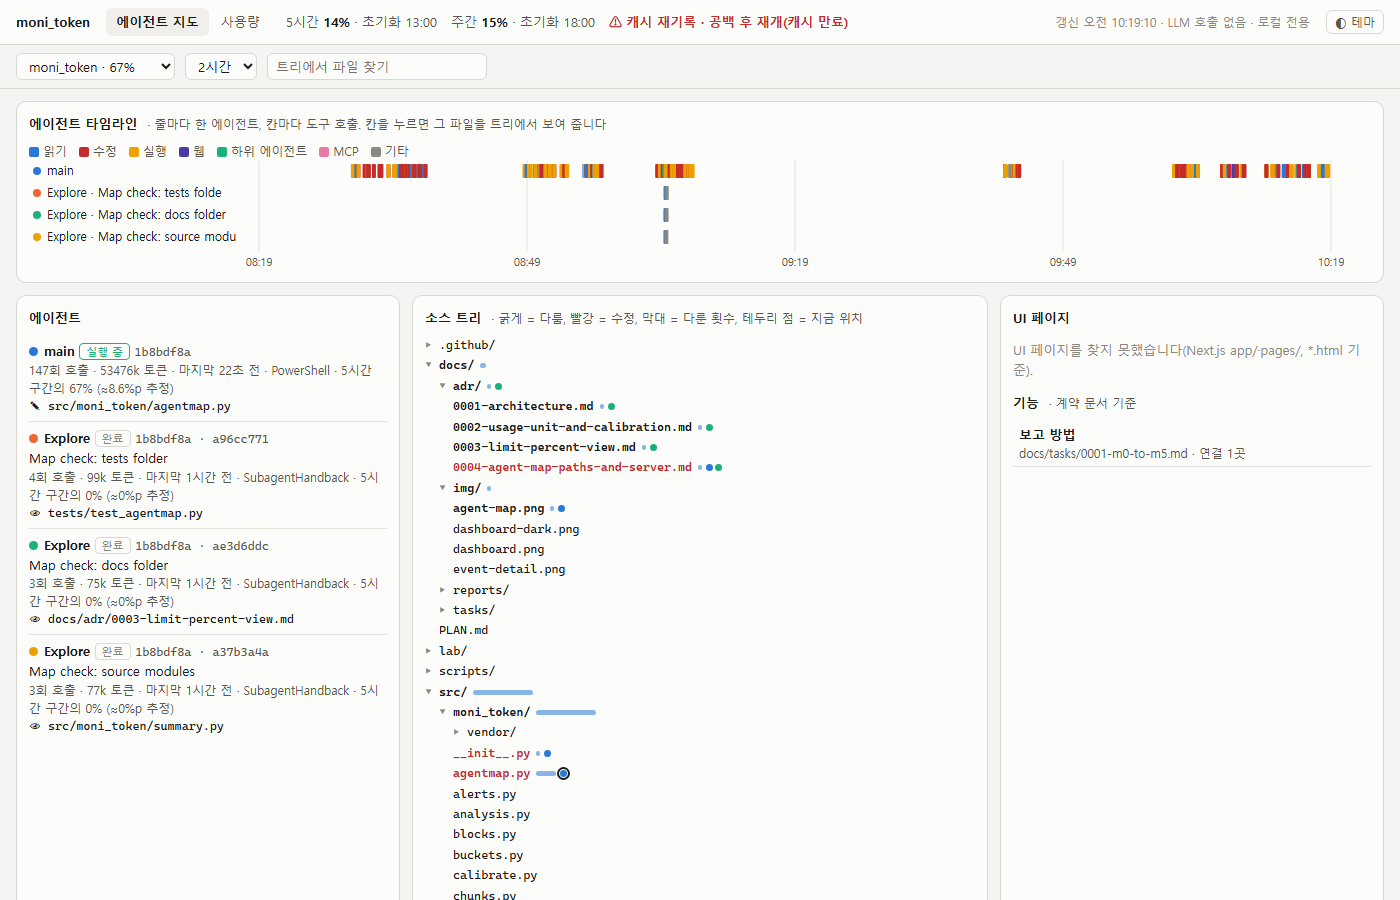
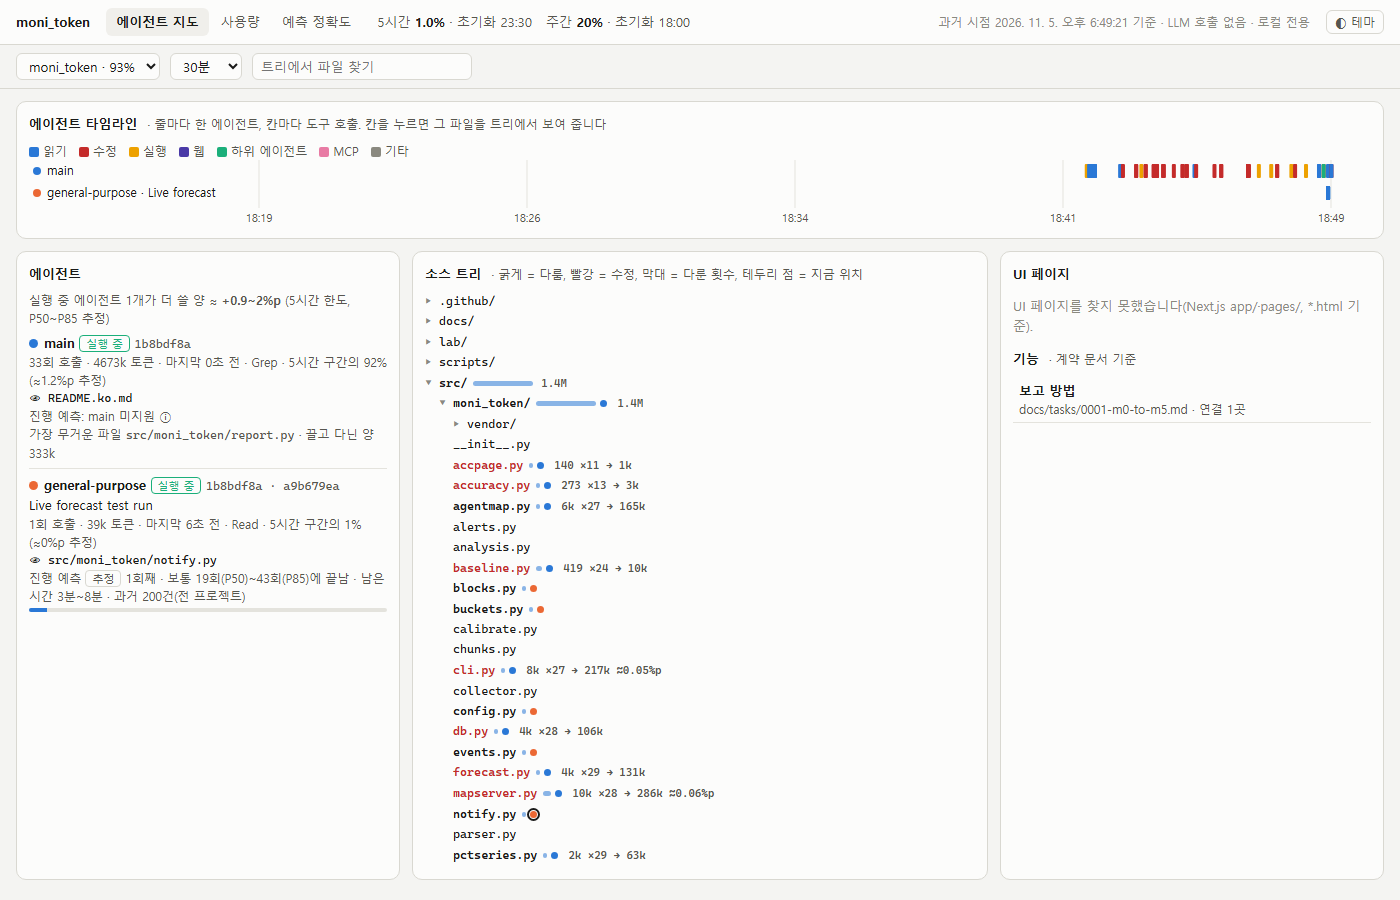
README: current screenshots (baselines, accuracy page, forecast on the map)
- demo data gets six earlier weeks so the usual curve and last week show
- dashboard (light and dark) with baselines and verdicts
- agent map with a subagent forecast and the main-agent note
- new forecast accuracy screenshot

Claude-Session: https://claude.ai/code/session_01FatjmAMN41hpZSuy3XZy95

diff --git a/scripts/demo_report.py b/scripts/demo_report.py
@@ -131,6 +131,22 @@ def scenario() -> list[Session]:
         ss.append(s)
     e = Session("web-app", "e5f6a7b8-0001"); e.work(d0 + timedelta(days=2, hours=16, minutes=10), 30, 80); ss.append(e)
     f = Session("docs-site", "f6a7b8c9-0001"); f.work(d0 + timedelta(days=2, hours=12, minutes=0), 35, 90); ss.append(f)
+    return history(d0) + ss
+
+
+def history(d0: datetime, days: int = 42) -> list[Session]:
+    """Six earlier weeks of ordinary work, so the charts have a usual curve and a last week to compare with."""
+    ss = []
+    for k in range(days, 0, -1):
+        day = d0 - timedelta(days=k)
+        if day.weekday() >= 5 and rnd.random() < 0.7:     # mostly quiet weekends
+            continue
+        for j in range(rnd.choice((1, 1, 2))):
+            proj = rnd.choice(("web-app", "docs-site", "data-pipeline"))
+            s = Session(proj, f"h{k:02d}{j}-0000", ctx=rnd.randint(40_000, 80_000))
+            s.work(day + timedelta(hours=9 + j * 5, minutes=rnd.randint(0, 50)), rnd.randint(40, 90), rnd.randint(40, 80),
+                   big_every=rnd.choice((0, 6, 8)), big_tokens=rnd.randint(8_000, 16_000))
+            ss.append(s)
     return ss
 
 

diff --git a/README.ko.md b/README.ko.md
@@ -158,7 +158,7 @@ uv run moni-token map          # http://127.0.0.1:4990/
 
 ![실시간 에이전트 지도](docs/img/agent-map.png)
 
-<sub>이 기능을 만드는 동안 찍은 이 저장소 자신의 지도입니다. 세션 하나가 고친 파일이 빨강으로 보입니다.</sub>
+<sub>이 저장소를 개발하는 도중 찍은 지도입니다. 서브에이전트(general-purpose)는 실행 중이고 진행 예측이 나와 있으며, main에는 "진행 예측: main 미지원"이 표시됩니다. 빨간 파일은 수정된 파일이고, 옆 숫자는 파일별 토큰 비용입니다.</sub>
 
 메인 세션과 서브에이전트가 지금 프로젝트의 어디서 일하는지 보여 줍니다.
 
@@ -193,6 +193,10 @@ uv run moni-token map          # http://127.0.0.1:4990/
   - **지난주 선:** 지난주 같은 시점의 사용량입니다.
 - **판정:** 그래프 제목 옆에 근거 숫자와 함께 나옵니다. 예: "▲ 높음 · 지금 20% · 평소 이번 주 2일 시점 5.9% (P25~P75 0~14%) · 과거 10개 구간". 과거 구간이 5개 미만이면 "기록 부족"으로 나옵니다.
 - **속도 전망:** 최근 1시간(주간은 하루)의 속도가 이어지면 초기화 때 몇 %가 되는지 보여 줍니다. 그 전에 100%에 닿으면 언제쯤인지도 알려 줍니다.
+
+main 에이전트는 진행 예측을 하지 않습니다. 권장 구성에서 main은 지시와 검수만 맡기 때문이며, 지도에는 그 사실이 툴팁으로 표시됩니다.
+
+![예측 정확도](docs/img/accuracy.png)
 
 **예측 정확도:** **http://127.0.0.1:4990/accuracy**
 - **기록:** 지도 서버(20초마다)와 `check`가 실행 중인 서브에이전트마다 그때 보인 예측을 호출 수가 바뀔 때마다 숫자로만 남깁니다(`forecast_snaps` 표). 실행이 끝나면 채점합니다.

diff --git a/README.md b/README.md
@@ -162,7 +162,10 @@ uv run moni-token map          # http://127.0.0.1:4990/
 
 ![Live agent map](docs/img/agent-map.png)
 
-<sub>This repository's own map while this feature was being written: one session, files it edited in red.</sub>
+<sub>This repository's own map during development:
+- a running subagent (general-purpose) with its progress forecast;
+- the main agent marked "progress forecast: not supported for main";
+- edited files in red, each touched file with its token cost.</sub>
 
 Shows where each agent (main session and subagents) is working right now:
 
@@ -199,6 +202,10 @@ project shows its share of the current 5-hour window (≈ %p via calibration, la
   - last week's line.
 - A label next to each chart title gives the verdict with its numbers, for example: "▲ high · 20% now · usually 5.9% at day 2 (P25–P75 0–14%) · 10 past windows". Below 5 past windows it says "not enough history".
 - A pace line shows the % you would reach at the reset if the last hour's slope (the last day's for the weekly chart) continues, and when 100% would come first.
+
+The main agent gets no forecast: in the recommended setup it only directs and reviews. A tooltip on the map says so.
+
+![Forecast accuracy](docs/img/accuracy.png)
 
 **Forecast accuracy** at **http://127.0.0.1:4990/accuracy**:
 - **Live record:** the map server (every 20 s) and `check` store the forecast shown for each running subagent, once per call count. Only numbers are stored, in a `forecast_snaps` table. Each forecast is scored once the run finishes.
